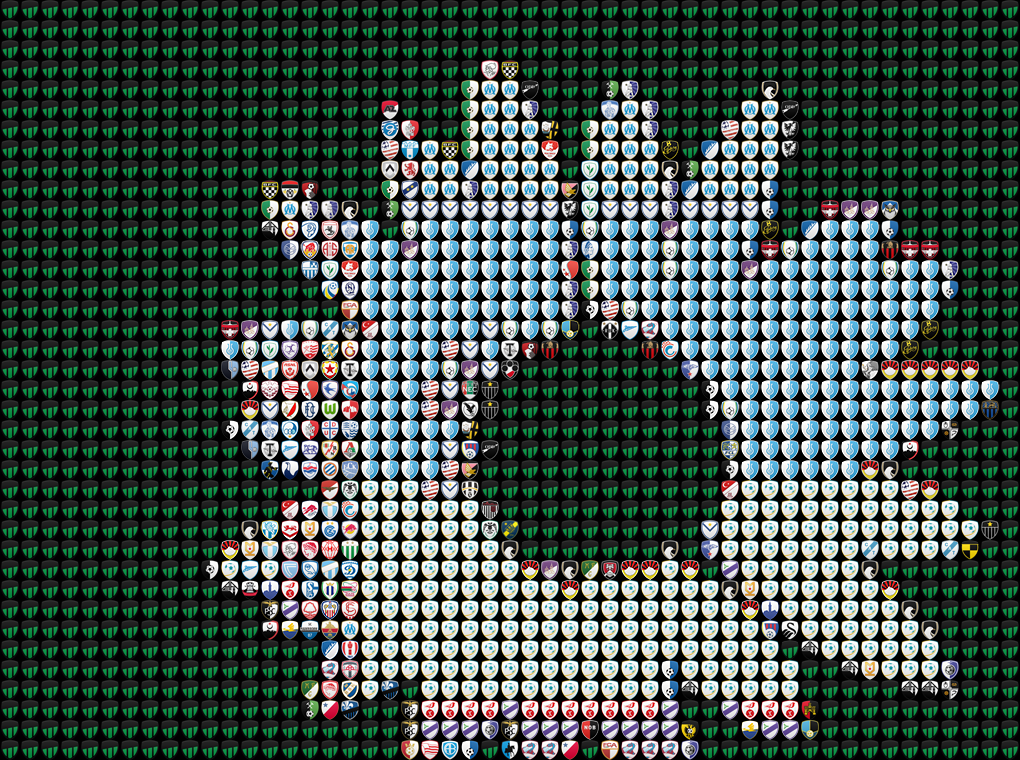
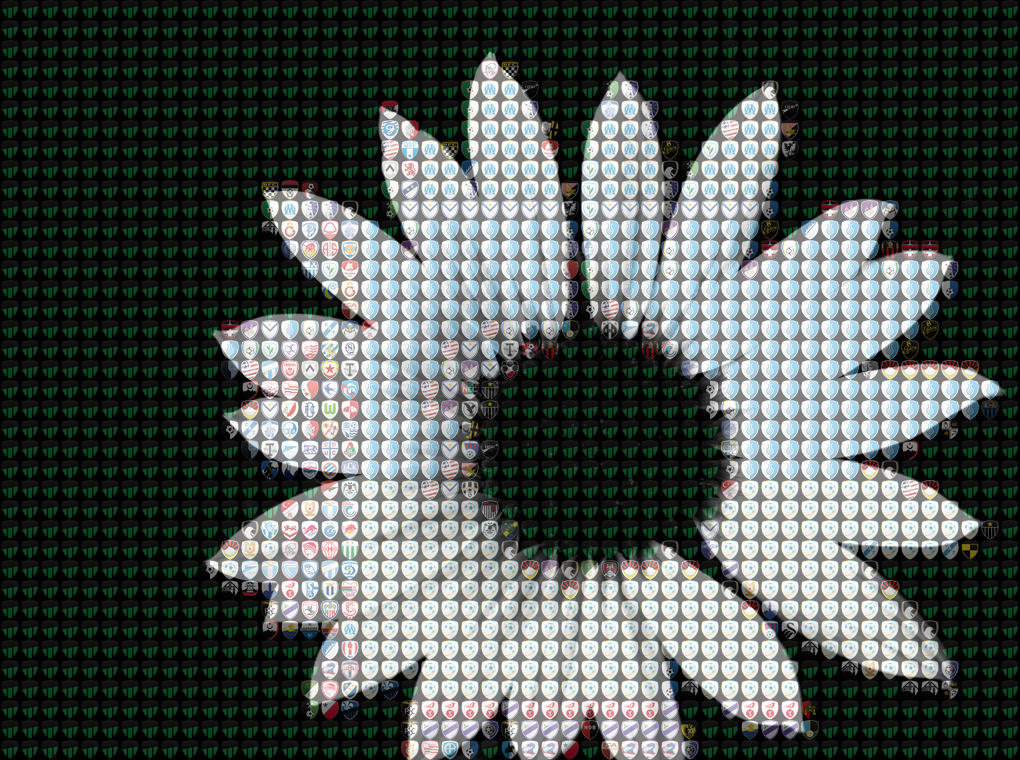
0021 Grid on image not shown by default

diff --git a/Mosaic/Mosaic.WebUI/Mosaic.WebUI/wwwroot/js/GridImage.js b/Mosaic/Mosaic.WebUI/Mosaic.WebUI/wwwroot/js/GridImage.js
@@ -1,7 +1,7 @@
 can = document.getElementById("canvas");
 var ctxImage = can.getContext("2d");
 var im = new Image();
-var showGrid = true;
+var showGrid = false;
 var container = document.getElementById("image-container");
 var currentSeparation = 10;
 
